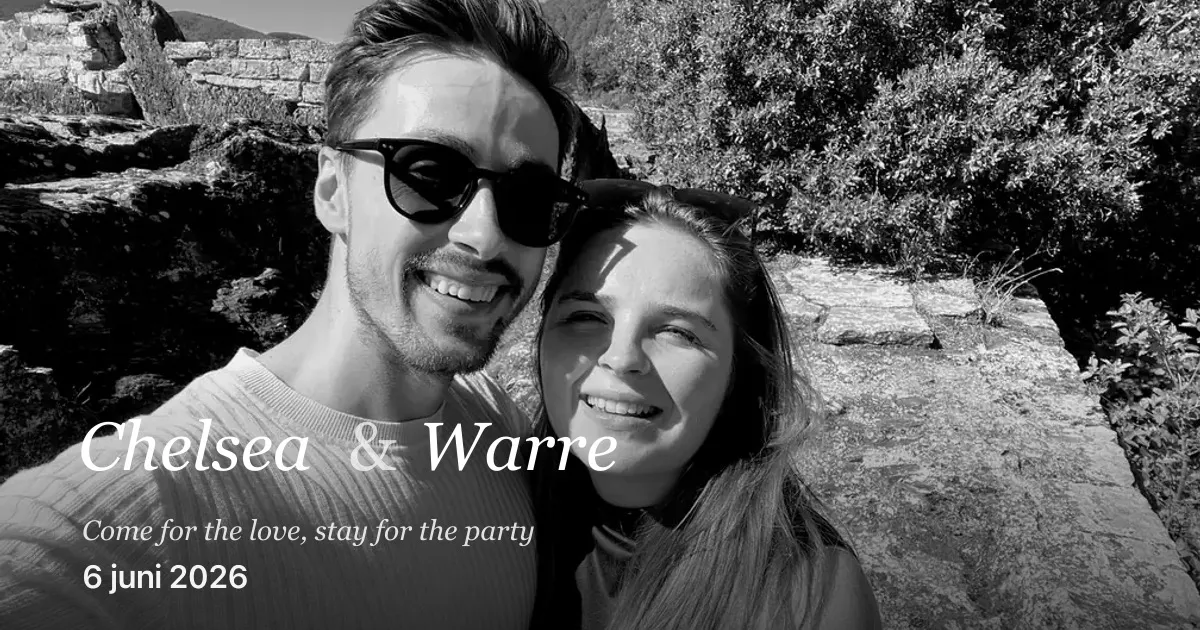
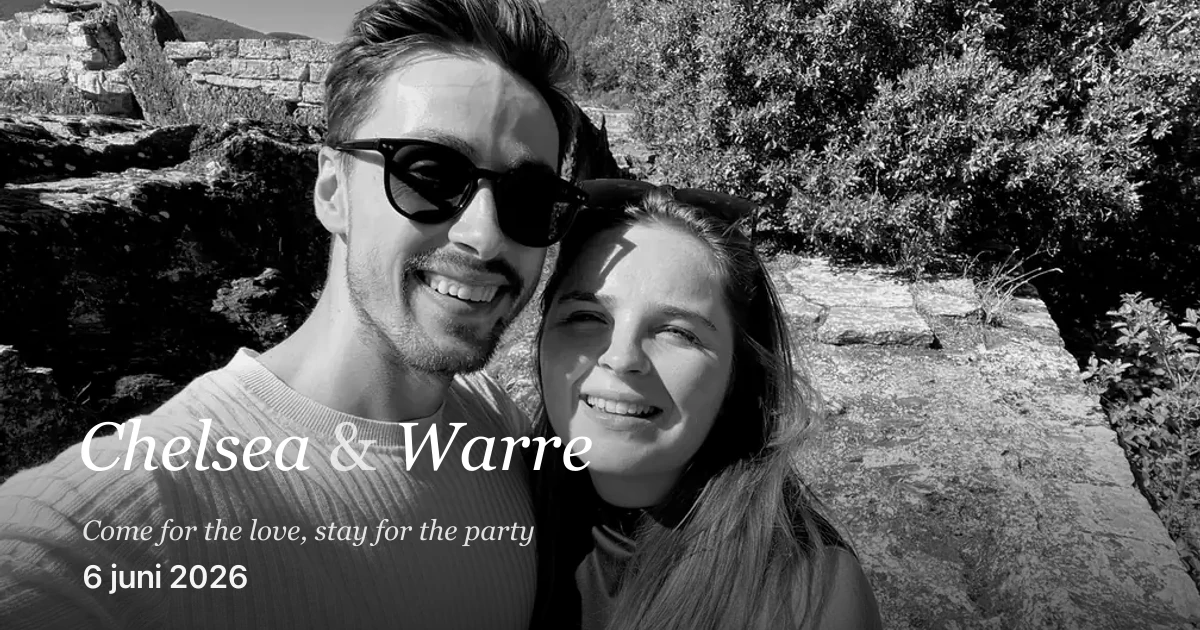
more safari fixes, and spacing issues

Changed region(s): [[0.2775, 0.6635, 0.5242, 0.754]]

diff --git a/wedding-web/src/styles.scss b/wedding-web/src/styles.scss
@@ -203,7 +203,7 @@ body {
 }
 
 .welcome-amp {
-	margin: 0 10px;
+	margin: 0 5px;
 	font-weight: 400;
 	opacity: 0.7;
 }
